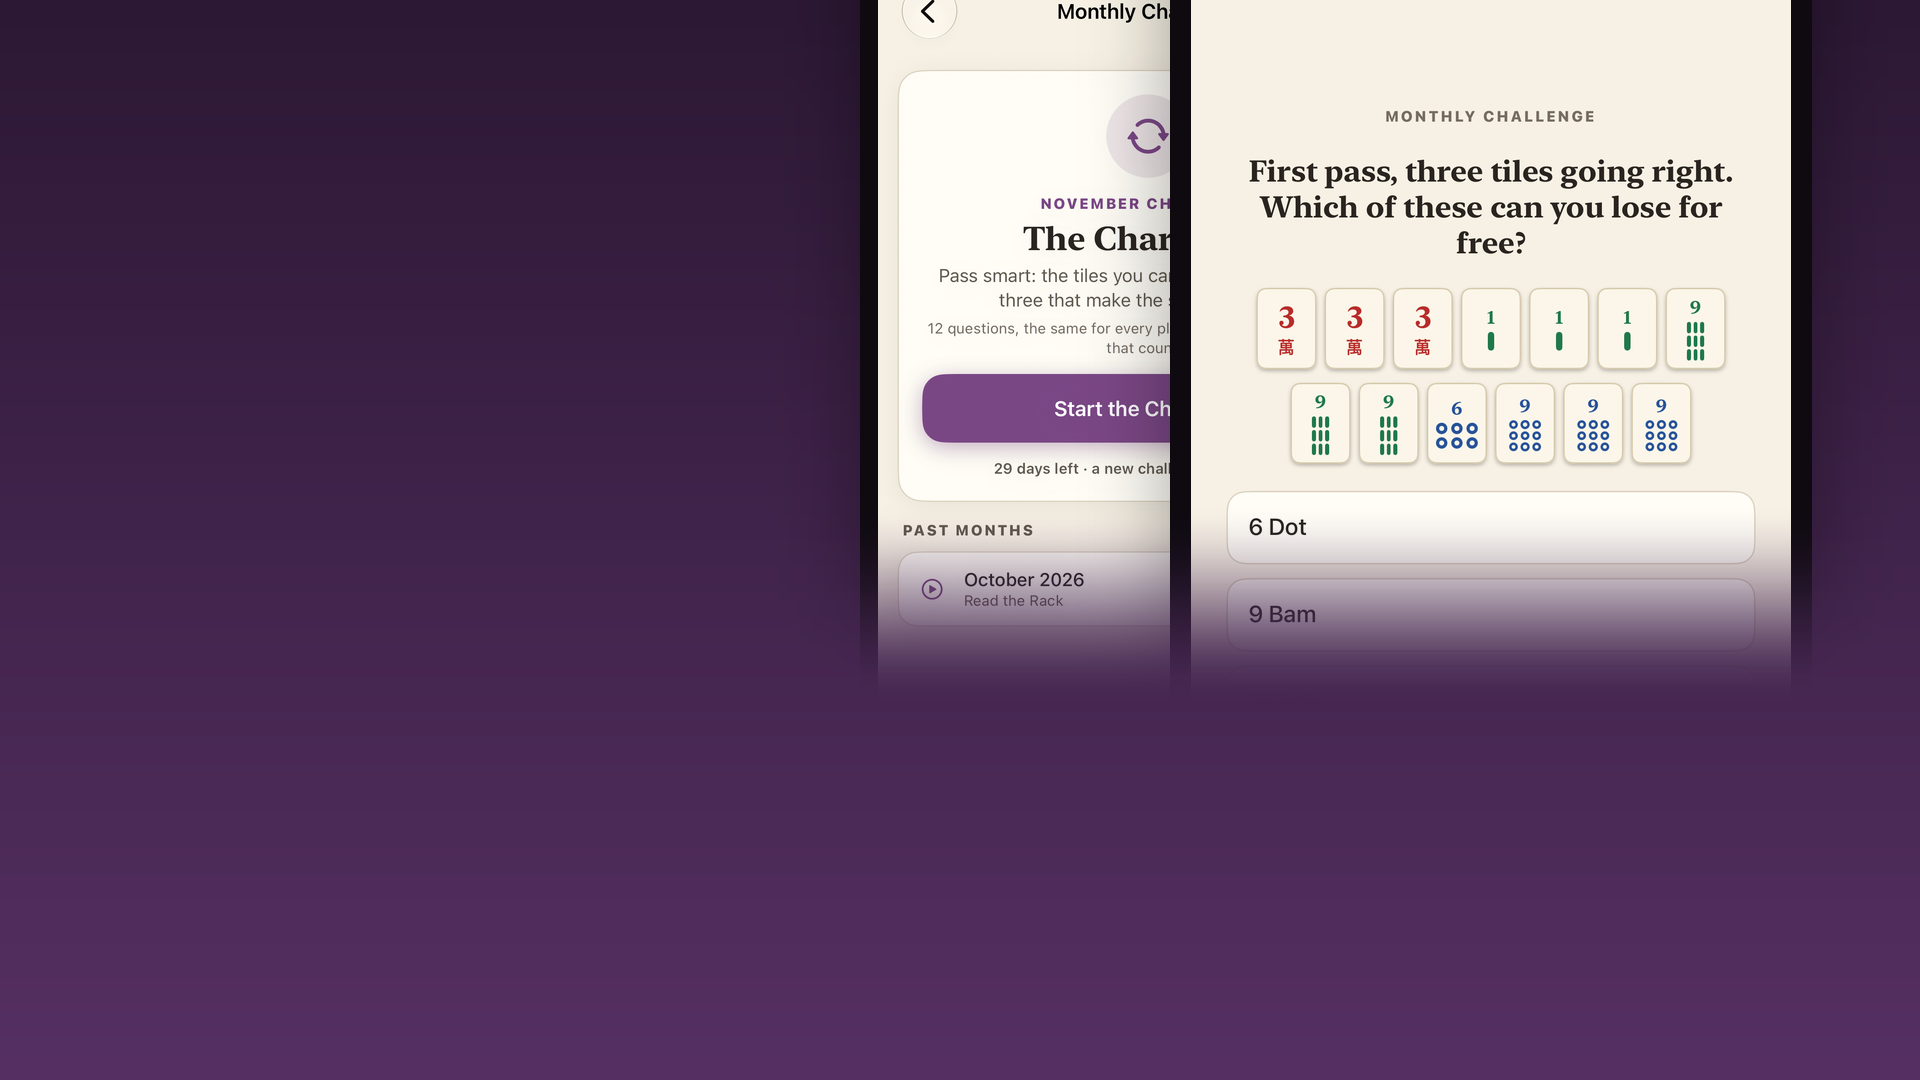
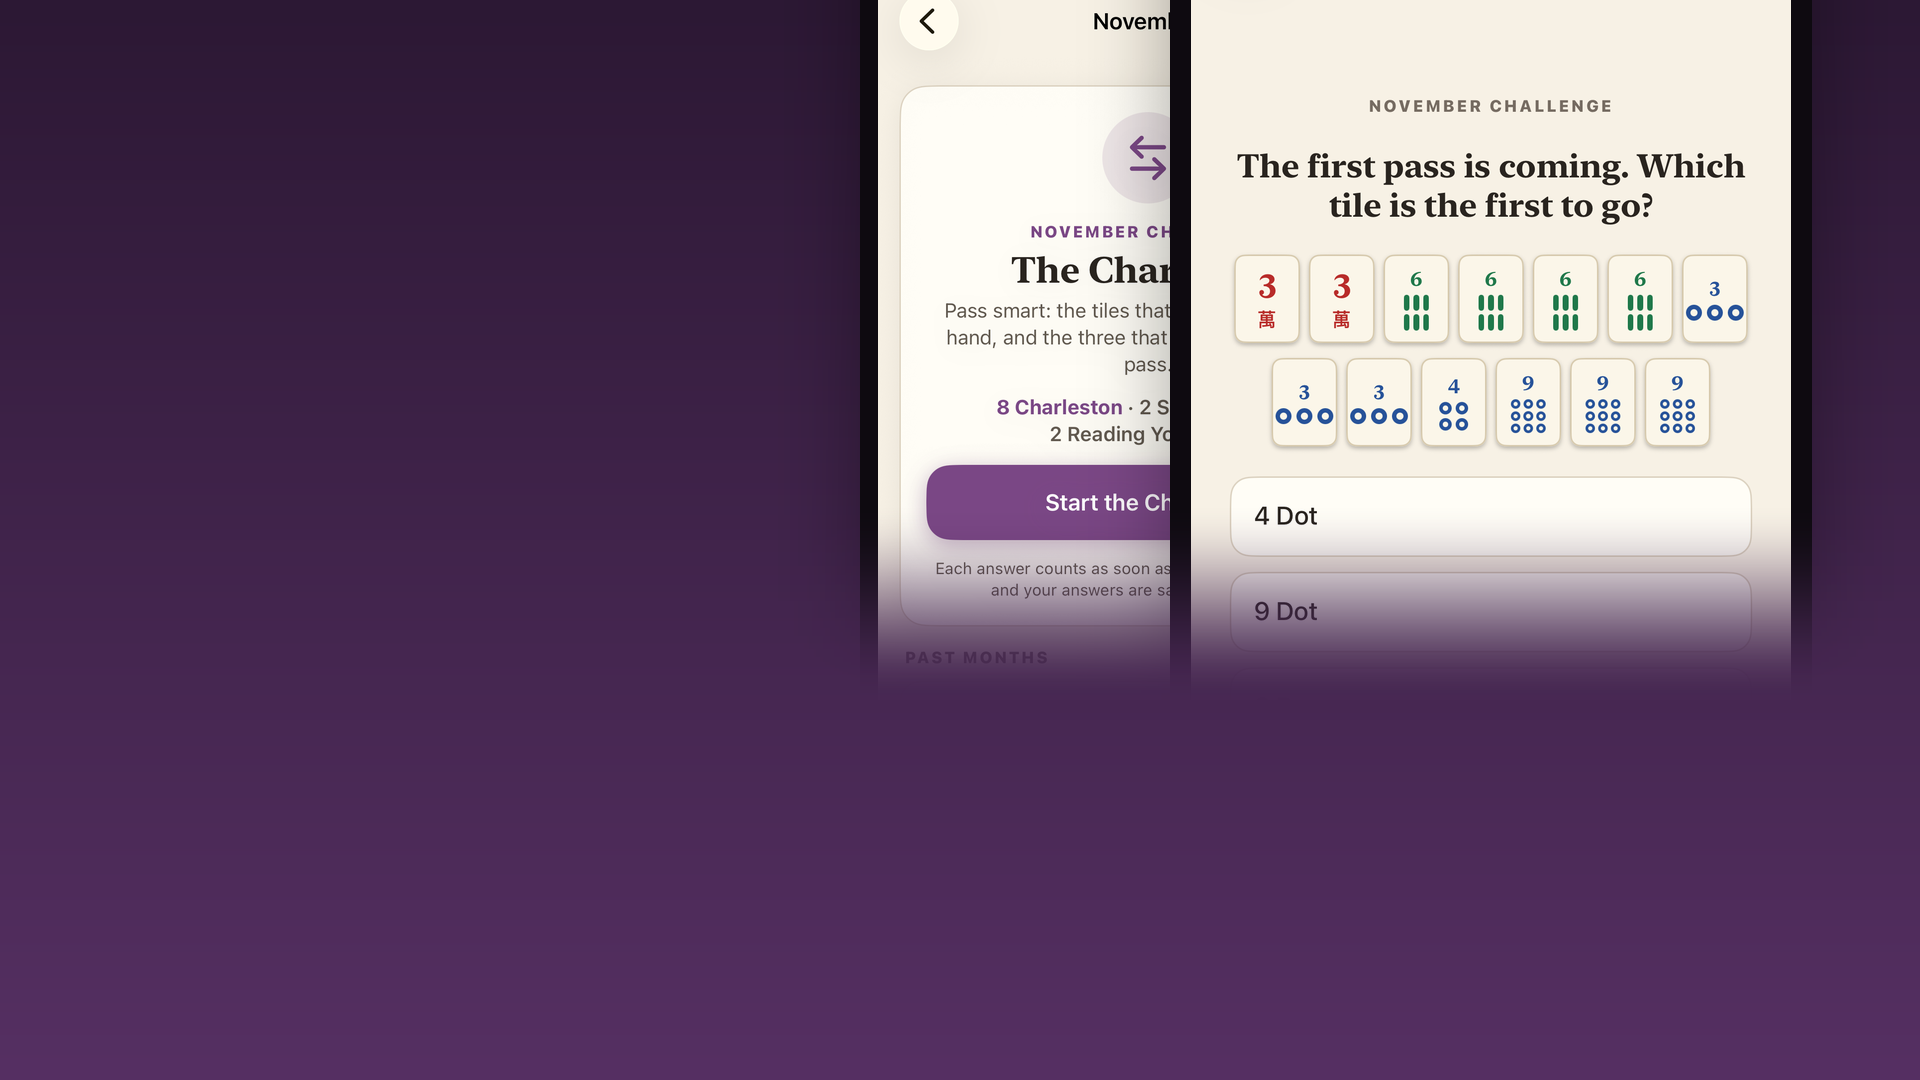
docs: monthly challenge rule; month title in the run; new event art
Claude-Session: https://claude.ai/code/session_01VhWZjrgxHTf4q9vz6E2ssx

diff --git a/MahjTrainer/Views/Drills/QuickSessionView.swift b/MahjTrainer/Views/Drills/QuickSessionView.swift
@@ -15,7 +15,10 @@ private enum QuickSessionPurpose {
         }
     }
 
-    var navigationTitle: String { drill.title }
+    var navigationTitle: String {
+        if case .monthlyChallenge(let challenge) = self { return "\(challenge.monthName) Challenge" }
+        return drill.title
+    }
 }
 
 /// The Get Started session: a short, UNIFORM run of single-select choice

diff --git a/.claude/rules/monthly-challenge.md b/.claude/rules/monthly-challenge.md
@@ -16,18 +16,33 @@ and a new featuring nomination every month on the fleet's highest-impression
 app.
 
 - `MonthlyChallengeContent.challenge(for:)`: twelve questions per month, the
-  same on every device. Six on the month's theme, two of each other generated
-  skill, plus two authored (Charleston three-tile passes in a Charleston
-  month, table judgments otherwise). Themes rotate Charleston, Defense, Read
-  the Rack from November 2026 (`rotationAnchor`); October 2026 is the first
-  month offered (`firstMonth`). Tile counting is left out because its
-  generator is not seeded.
+  same on every device, easiest first. Q1-9 are generated: five on the
+  theme interleaved with two of each other skill (no two of a kind in a
+  row, no repeated shape, at most one all-honors rack). Q10-12 are
+  hand-written closers that rotate without repeats: three-tile Charleston
+  passes; two four-choice defense reads (`defenseQuestions`, written for the
+  challenge) plus one judgment call; hand-match racks from the sections the
+  generator cannot deal (Like Numbers, Year, Quints, Singles & Pairs).
+  Charleston months mix in `CharlestonGenerator.twoSinglesBatch` (keep the
+  single that fits, pass the one that does not); defense months swap in the
+  run-trap tile (`DefenseGenerator.withRunBait`). Both are iOS-only.
+  Themes rotate Charleston, Safe Discards, Reading Your Rack from November
+  2026 (`rotationAnchor`); October 2026 is the first month (`firstMonth`).
+- Content reviews: two passes by a teacher persona and one by a new player
+  (2026-10-12) drove the generator fixes (strays that change the read,
+  6+ of a number, odds of only 3s and 9s), rack-aware miss notes, run
+  reads in defense copy and the plain-language names. Dump any month with
+  `TEST_RUNNER_CHALLENGE_DUMP=<path>` on `MonthlyChallengeDumpTests`.
 - Free for everyone. `AppDestination.isFree` lets `mahj://challenge` through
   the Home paywall guard. The result screen shows one Mahj+ pointer to free
   players; no lock anywhere in the flow.
-- `MonthlyChallengeStore` keeps the FIRST finished run per month. Same
-  questions for everyone, so a replay would be a memory test, and a shared
-  score has to mean one attempt.
+- `MonthlyChallengeStore` keeps the FIRST run per month, saved after every
+  answer (`recordAnswer`); leaving resumes at the same question and the last
+  answer finishes it. Same questions for everyone, so a replay would be a
+  memory test, and a shared score has to mean one attempt.
+- `MonthlyChallengeReminder`: opt-in, one notification on the 1st of each
+  of the next three months, re-laid on launch.
+- The What's New line is `isAppleOnly`, so the Android export skips it.
 - Month names are forced to English (`en_US_POSIX`): a bare `Calendar`
   answers "M11", and the app's copy is English.
 - DEBUG `-ChallengeMonth 2026-11` renders a coming month for store art.
